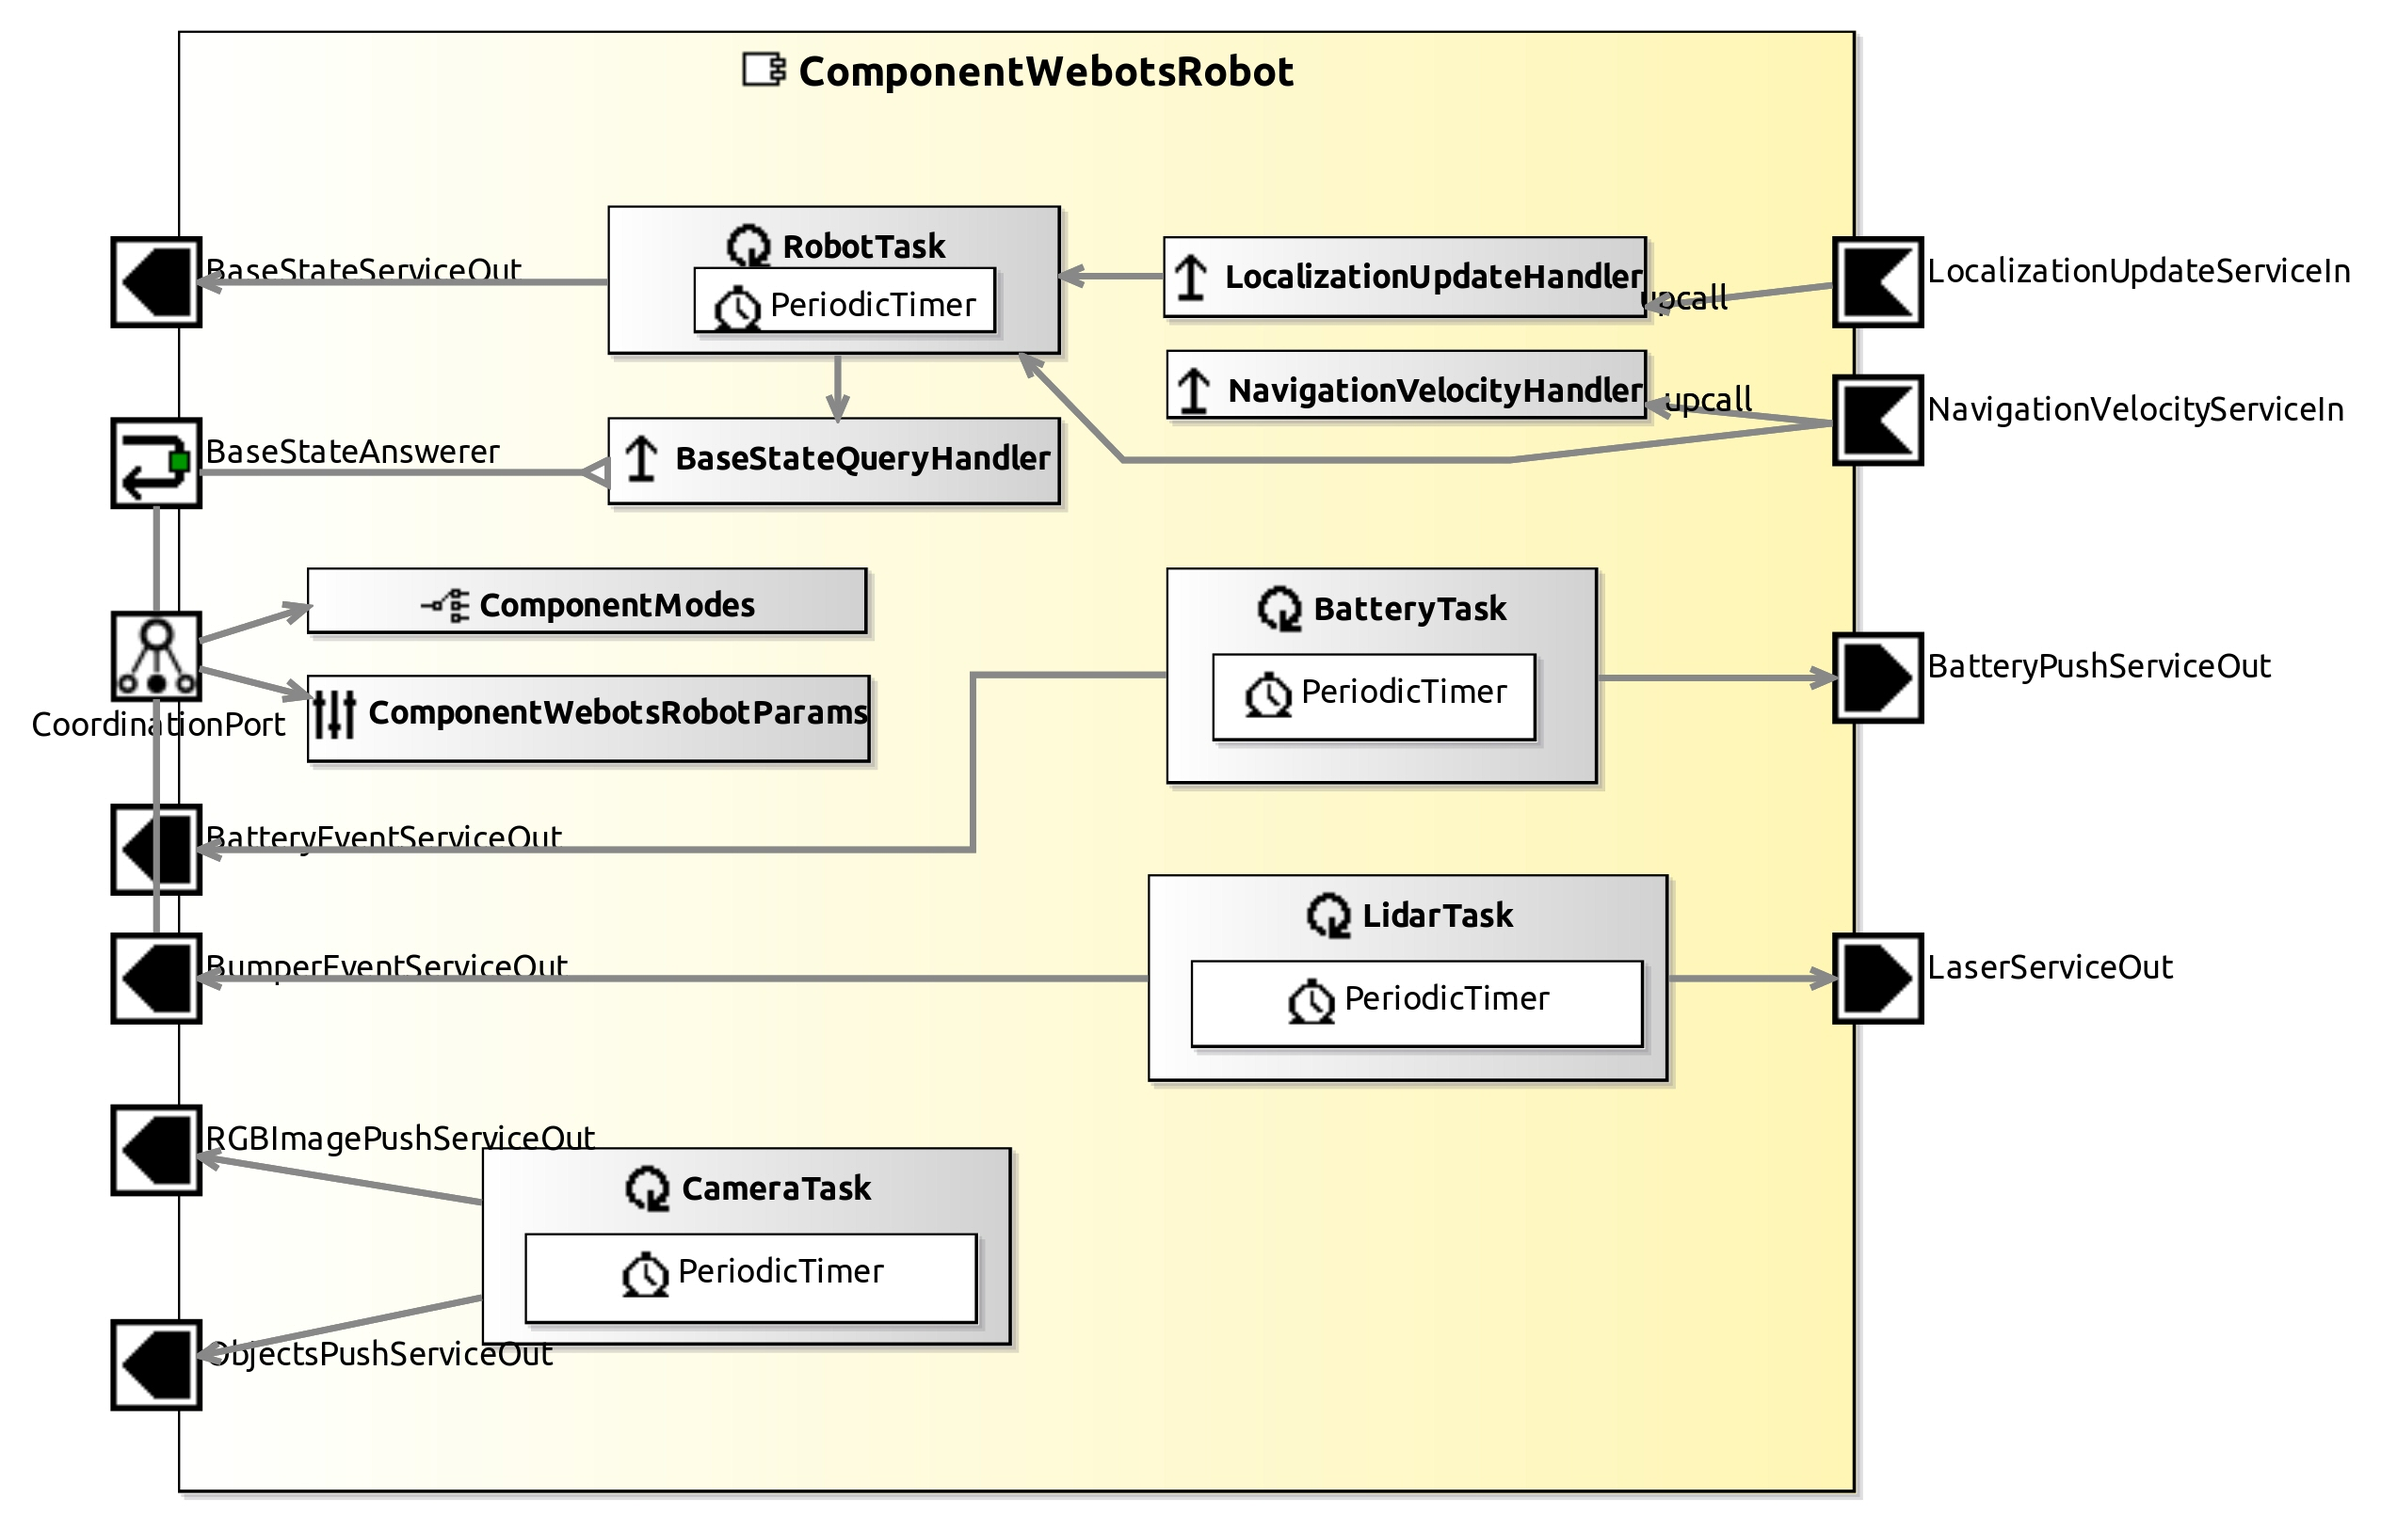
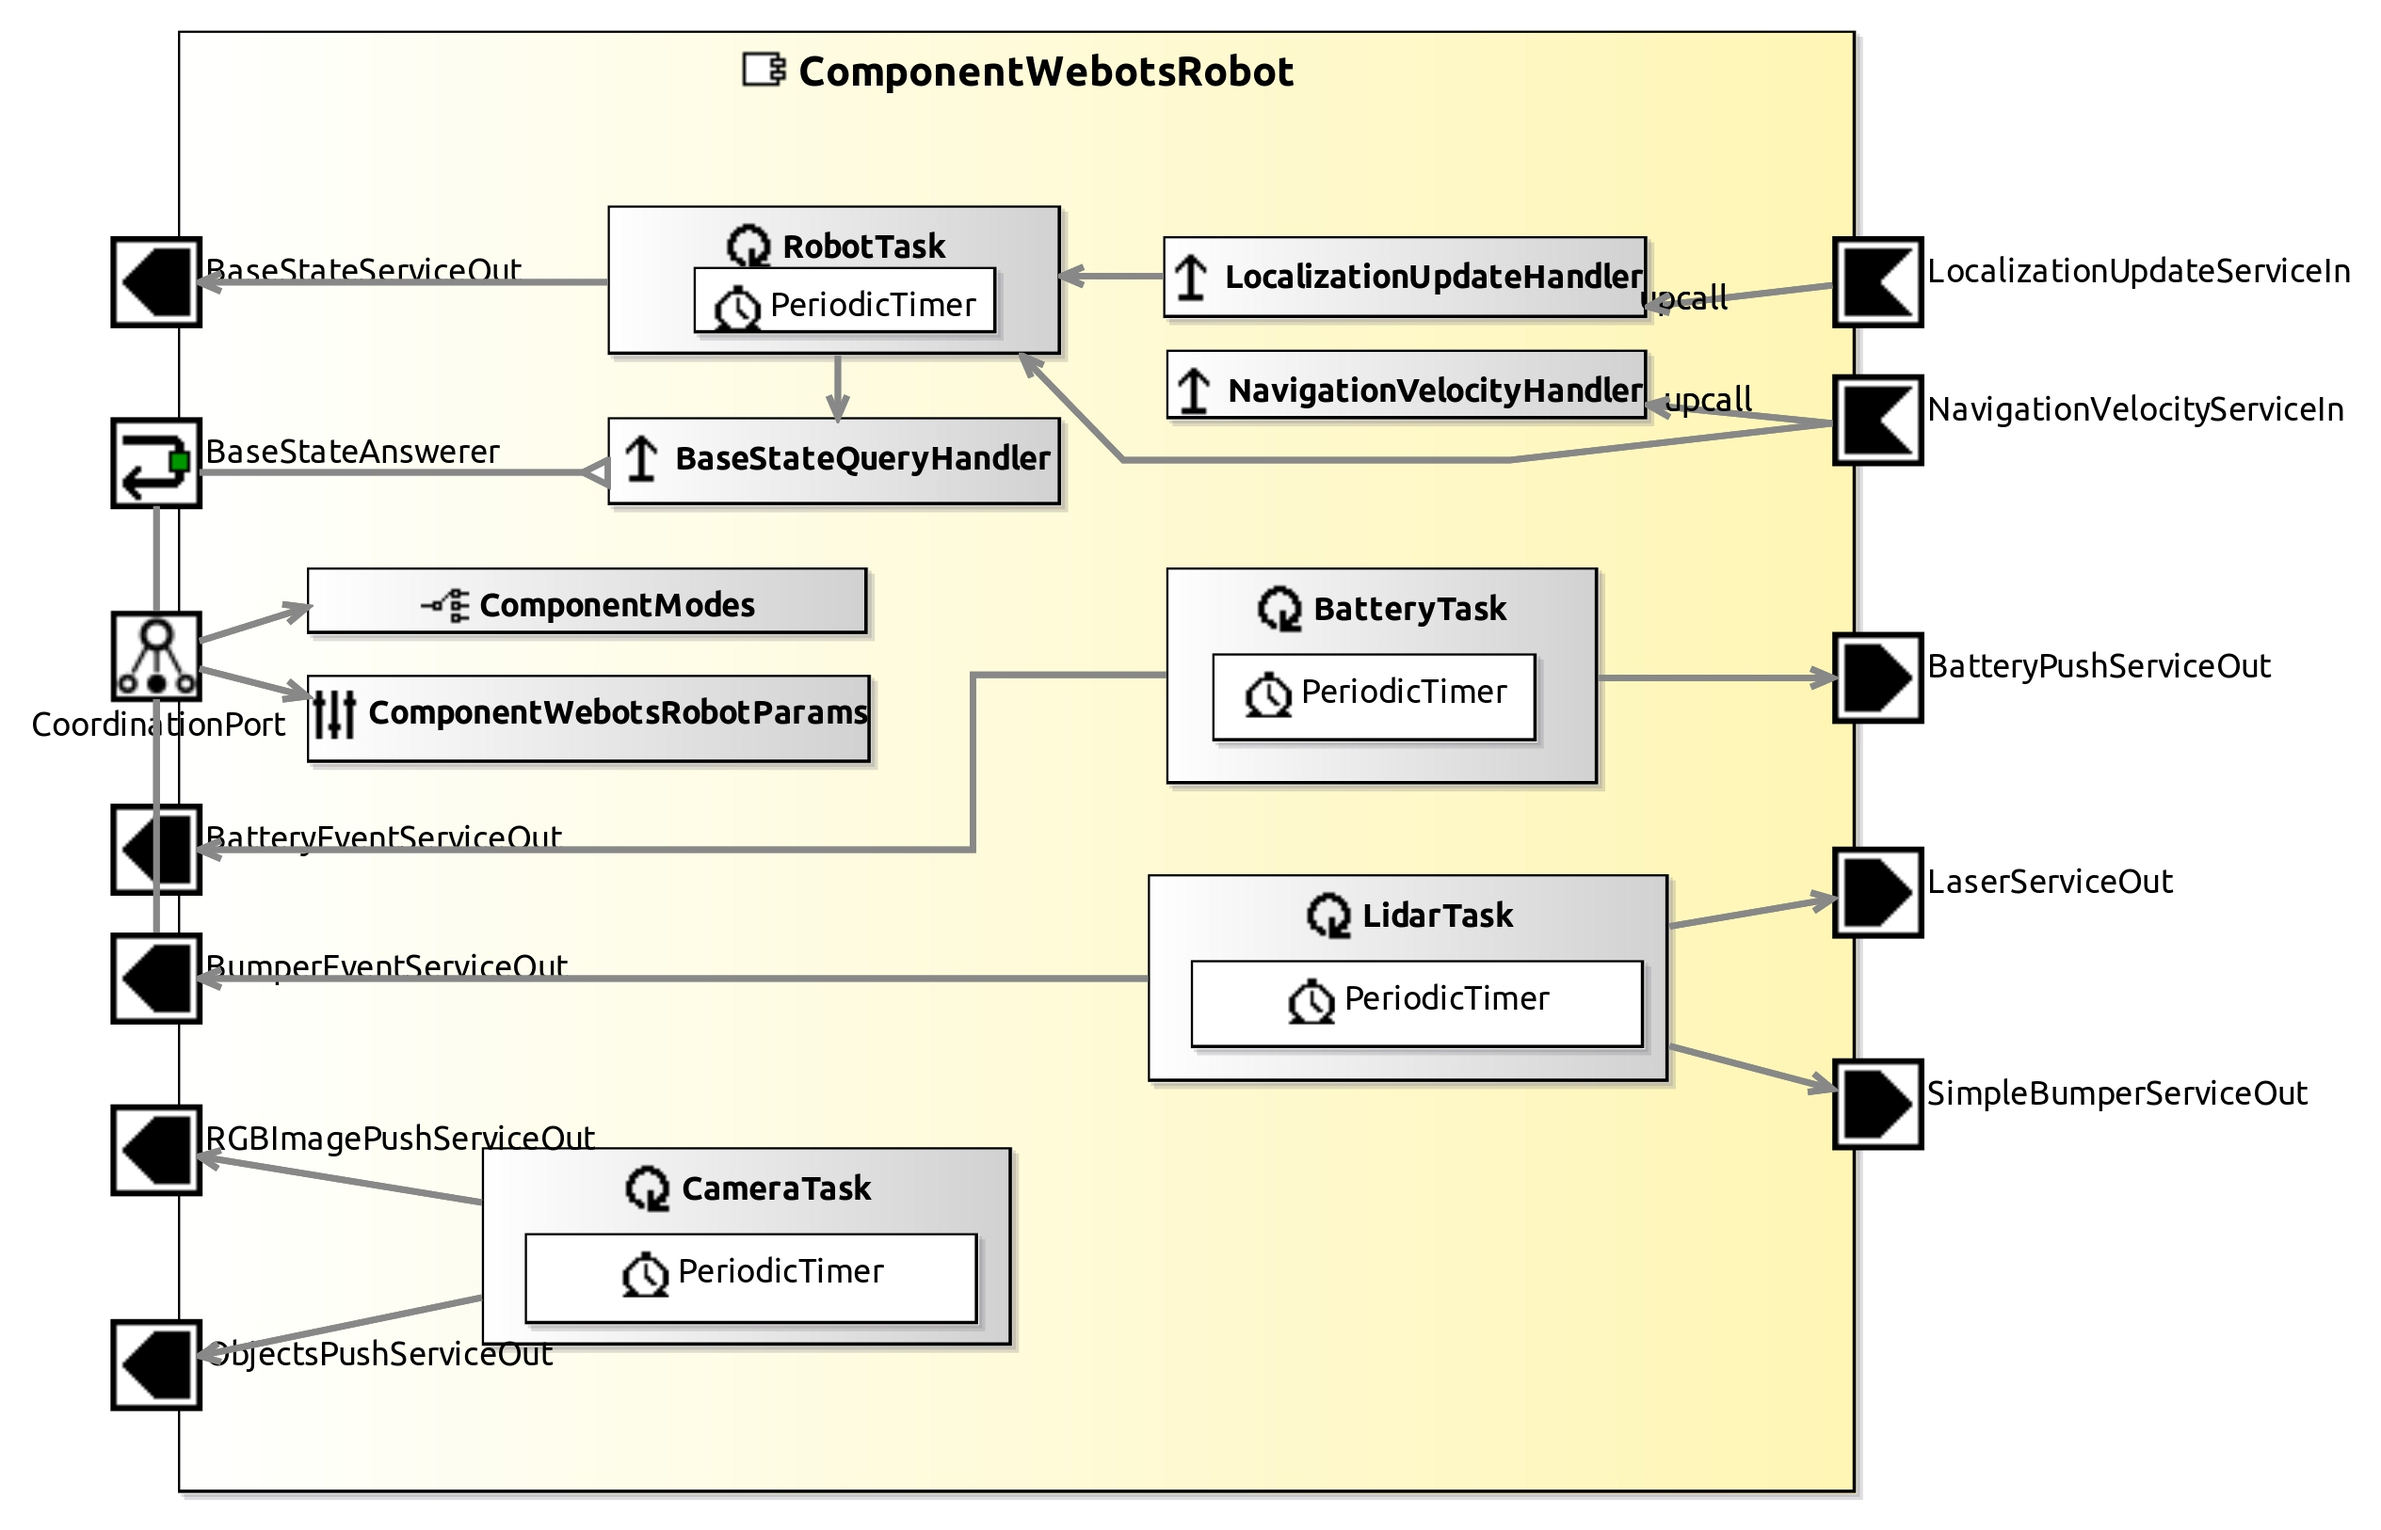
add robot new push pattern that mock the event

Changed region(s): [[0.7185, 0.5535, 0.9684, 0.7688]]

diff --git a/ComponentWebotsRobot/smartsoft/src/LidarTask.cc b/ComponentWebotsRobot/smartsoft/src/LidarTask.cc
@@ -118,9 +118,15 @@ int LidarTask::on_execute()
 		// scan.set_sensor_pose(...);
 		scan.set_scan_valid(true);
     
+		CommBasicObjects::SimpleBumpState simple_bumple_state;
+		simple_bumple_state.setIs_valid(true);
+
     CommBasicObjects::BumperEventType new_bumper_type = 
       (min_dist < bumper_threshold_) ? CommBasicObjects::BumperEventType::
       BUMPER_PRESSED : CommBasicObjects::BumperEventType::BUMPER_NOT_PRESSED;
+		bool bumped = (min_dist < bumper_threshold_) ? true : false;
+		simple_bumple_state.setIs_bumped(bumped); 
+
     if (bumper_type_ != new_bumper_type || 
 				new_bumper_type == CommBasicObjects::BumperEventType::BUMPER_PRESSED) {
 			std::cout << "Robot almost in collision! Distance is: " << min_dist << "\n";
@@ -129,6 +135,7 @@ int LidarTask::on_execute()
       bumperEventServiceOutPut(state);
       bumper_type_ = new_bumper_type;
     }
+		simpleBumperServiceOutPut(simple_bumple_state);
 	}
 	else
 		scan.set_scan_valid(false);
